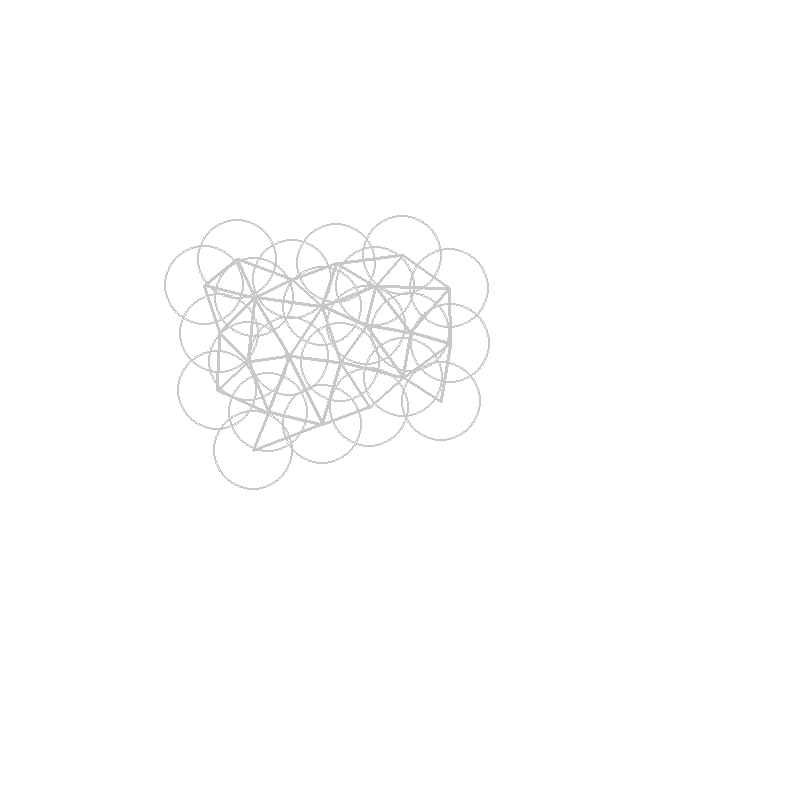
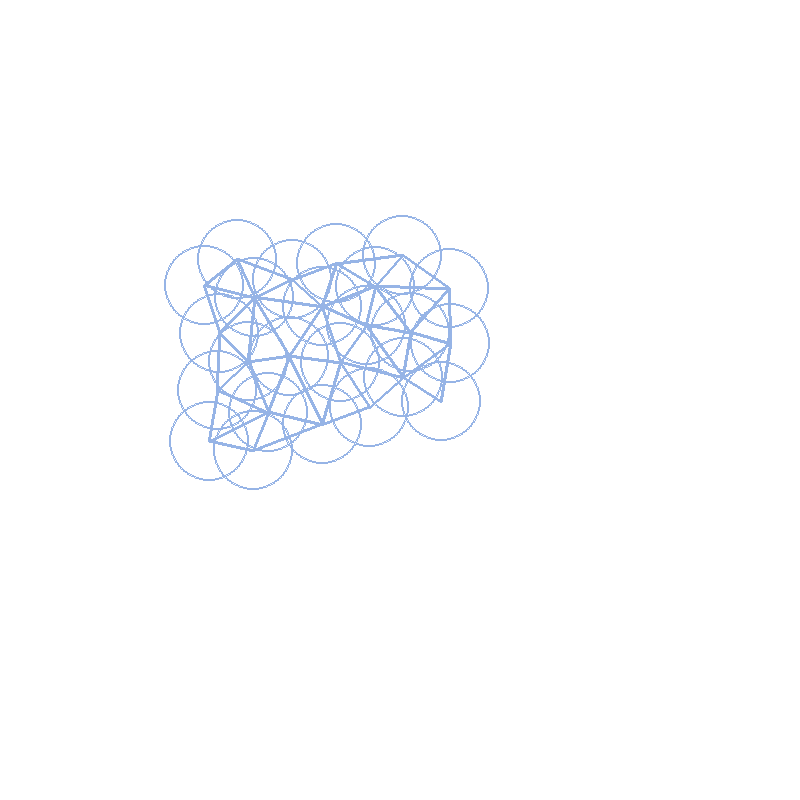
CSP passed simple test code

Changed region(s): [[0.2188, 0.2812, 0.5938, 0.5938], [0.25, 0.2812, 0.2812, 0.3125], [0.2188, 0.3125, 0.25, 0.3438]]

diff --git a/alphashape/Homotopy.py b/alphashape/Homotopy.py
@@ -52,7 +52,7 @@ class HomotopyCSP:
 					min_dist = dist;
 			return min_dist;
 
-		
+		pdb.set_trace();
 		union1.render( surface, (200,200,200) );	union2.render( surface, (200,000,200) );
 		pygame.display.update();
 		used_spheres = {};
@@ -106,21 +106,21 @@ class HomotopyCSP:
 			print "Same homotopy class"
 
 
-	def CSP( self, all_spheres, path1, path2 ):
+	def CSP( self, all_spheres, path1, path2, surf ):
 		'''Given n variables( spheres ) s[1..n] with available value 0 and 1. 
 		Solve the constraint satisfication problem of assigning variables such that:
 		1. either the assigned spheres have betti number 0
 		2. or there's no other spheres that can be added without increasing the betti number'''
 		path1cp = copy.copy(path1);
 		component = path1cp.merge(path2, self.edge_tri_dict, self.sphere_tri_dict);
+		assigned = {}
 		for s in component.spheres.keys():
 			assigned[s] = 1;
 
-		return self.CSP_helper(all_spheres, assigned, component)
+		return self.CSP_helper(all_spheres, assigned, component, surf)
 
 
-	def CSP_helper( self, all_spheres, assigned, component ):
-		
+	def CSP_helper( self, all_spheres, assigned, component, surf ):
 		
 		def dist(sphere, ball):
 			'''min_dist from a sphere to spheres on a union'''
@@ -135,31 +135,36 @@ class HomotopyCSP:
 			'''returns the heuristic of the sphere'''
 			return dist(sphere, union1) + dist(sphere, union2);
 
-
-		idx = 0;
-		def select_next_unassigned():
+		def select_next_unassigned(idx):
 			'''returns the an unassigned variable'''
 			spheres = all_spheres.keys();
 			for i in range(idx, len(spheres)):
 				s = spheres[i]
 				if not assigned.has_key(s) and component.intersects(s):
 					idx += 1;
-					return s;
+					return s, idx;
 				idx += 1;
 
 			return None;
 
+		pdb.set_trace();
 		old_betti = component.betti_number( self.edge_tri_dict );
+		print old_betti
 		if old_betti == 0:
 			return True; # Same homotopy
 
+		idx = 0;
 		while True:
-			var = select_next_unassigned();
+			pdb.set_trace()
+			component.render(surf, (150, 180, 230));
+			pygame.display.update();
+			var, idx = select_next_unassigned(idx);
 			if var == None:
 				return False;
-			if component.add_sphere_betti(var, old_betti, self.edge_tri_dict, self.sphere_tri_dict):
+			if component.add_sphere_betti(var, old_betti, self.edge_tri_dict, self.sphere_tri_dict, surf):
+				component.render(surf, (150, 180, 230));pygame.display.update();
 				assigned[var] = 1;
-				if not self.CSP_helper(all_spheres, assigned, component):
+				if not self.CSP_helper(all_spheres, assigned, component, surf):
 					component.remove(var, old_betti, self.edge_tri_dict, self.sphere_tri_dict, True);
 				else:
 					return True;

diff --git a/topology/Contraction_test.py b/topology/Contraction_test.py
@@ -176,7 +176,11 @@ def main():
 	print len(union2.get_spheres()), len(untouchable3)
 
 	csp = HomotopyCSP(spheres, contractor.graph, triangle_set, edge_tri_dict, sphere_tri_dict);
-	csp.greedy( union1, union2, DISPLAYSURF );
+	#csp.greedy( union1, union2, DISPLAYSURF );
+	if csp.CSP(spheres, union1, union2, DISPLAYSURF):
+		print "Same homotopy"
+	else:
+		print "Different homotopy class"
 	pygame.image.save(DISPLAYSURF, "homotopy.PNG")
 
 if __name__ == '__main__':
